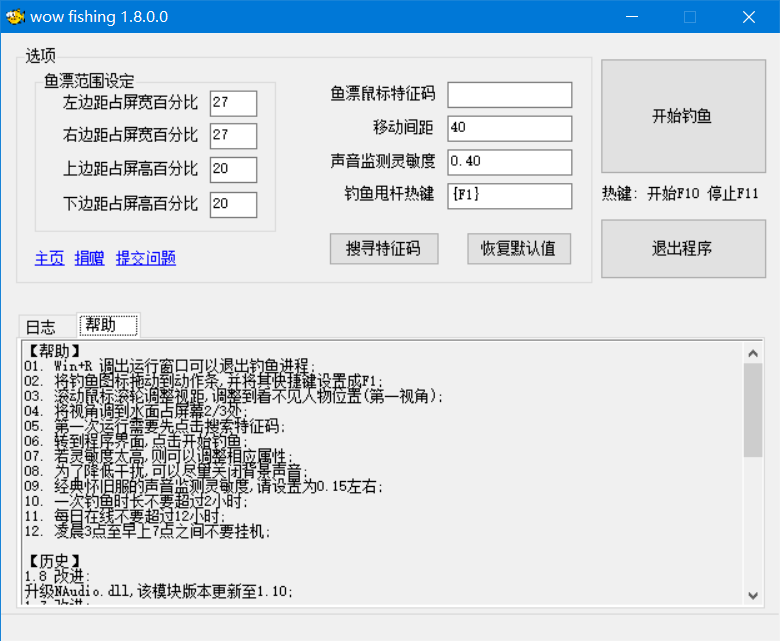
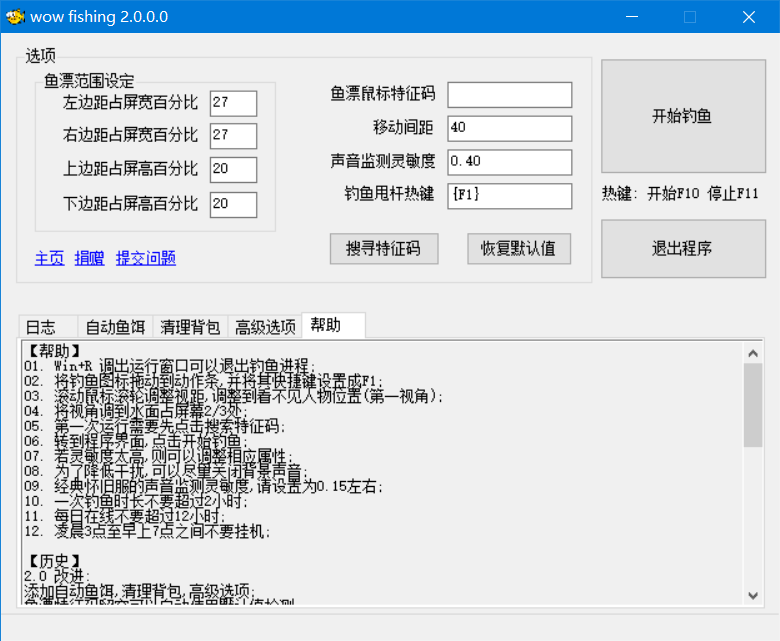
删除脚本,修改说明,更新截图;

diff --git a/README.md b/README.md
@@ -15,19 +15,6 @@
 
 * [.Net Framework 4.0 下载地址](https://www.microsoft.com/zh-cn/download/details.aspx?id=17718);
 
-#### 自动鱼饵
-
-* v3版本开始同时支持怀旧服和最新版;
-* 自动鱼饵需要在[下载页面](https://gitee.com/milaoshu1020/wowfishing/releases)下载"自动鱼饵v(n).vbx"脚本;
-* 运行脚本需要系统已经安装了 [NScript](https://github.com/milaoshu1020/NScript)([下载地址](https://github.com/milaoshu1020/NScript/releases));
-* 把鱼饵放在最后1个背包的第1个背包格(就是平时放炉石的位置);
-* 双击自动鱼饵脚本文件即可运行;
-* 可以使用用记事本或者其他编辑器查看并编辑.vbx脚本文件;
-* 鱼饵脚本需要和钓鱼程序配合使用;
-* 按Win+R调出"运行"对话框可以立即结束脚本运行(推荐方式);
-* 退出魔兽世界可以结束脚本运行(10分钟检测1次,退出时有提示);
-* 使用任务管理器结束进程"wnscript.exe"亦可以结束脚本运行;
-
 #### 捐赠
 
 * [捐赠地址](DONATE.md)
